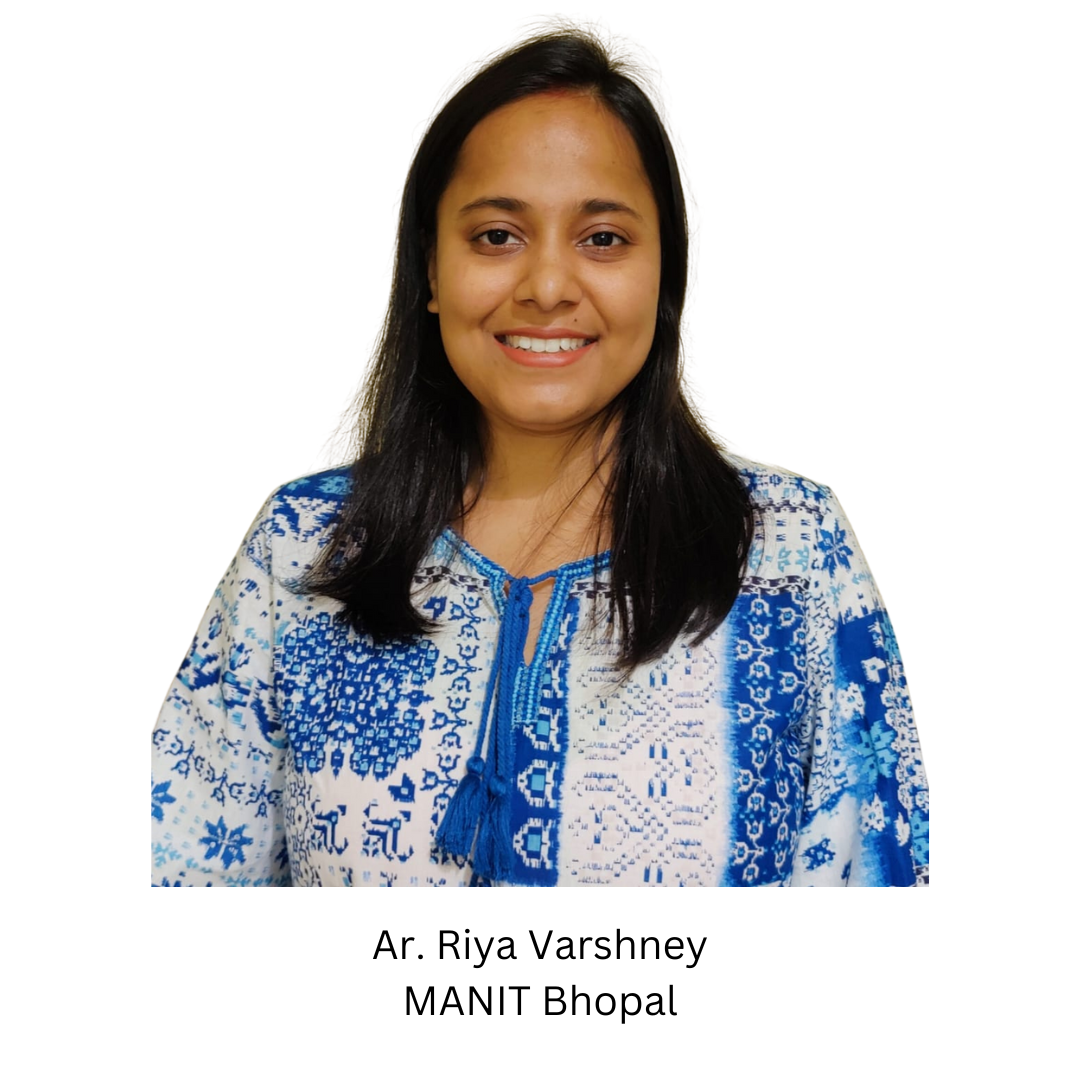
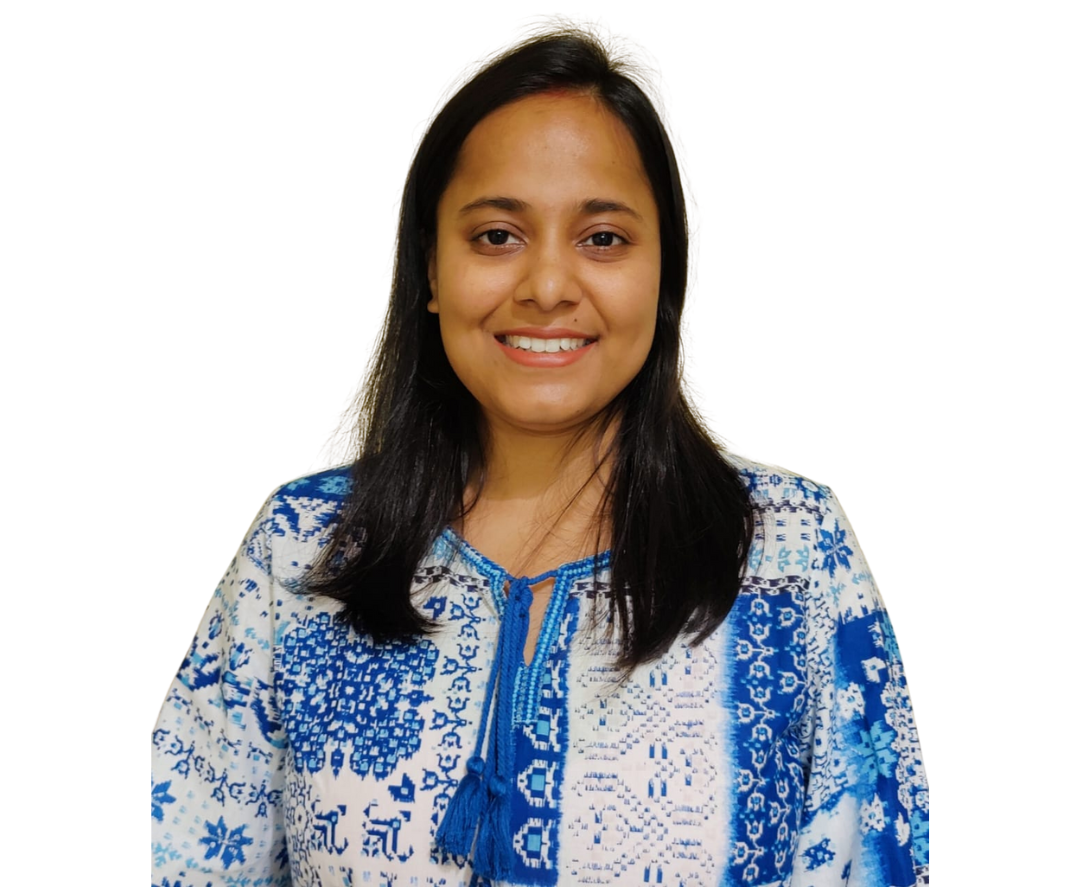
client feedbacks update

diff --git a/src/components/FAQ.jsx b/src/components/FAQ.jsx
@@ -1,10 +1,14 @@
 import React, { useState } from 'react';
 import { ChevronDown, ChevronUp } from 'lucide-react';
+import EnquiryModal from './EnquiryModal';
 
 const FAQ = () => {
   // State to track which FAQ item is open
   const [openItem, setOpenItem] = useState(0); // First item open by default
+  const [isModalOpen, setIsModalOpen] = useState(false);
 
+  const openModal = () => setIsModalOpen(true);
+  const closeModal = () => setIsModalOpen(false);
   // FAQ data
   const faqItems = [
     {
@@ -57,42 +61,53 @@ const FAQ = () => {
 
 
   return (
-    <section id='faq' className="pt-[3rem] pb-[4rem] px-6 bg-gray-50">
-      <div className="max-w-3xl mx-auto">
-        <div className="text-center mb-12">
-          <h2 className="text-3xl font-bold text-gray-900 mb-4">Got Questions? We Have Answers</h2>
-          <p className="text-gray-600">Find answers to the most common questions about our GATE preparation courses</p>
-        </div>
+    <>
+      <section id='faq' className="pt-[3rem] pb-[4rem] px-6 bg-gray-50">
+        <div className="max-w-3xl mx-auto">
+          <div className="text-center mb-12">
+            <h2 className="text-3xl font-bold text-gray-900 mb-4">Got Questions? We Have Answers</h2>
+            <p className="text-gray-600">Find answers to the most common questions about our GATE preparation courses</p>
+          </div>
 
-        <div className="space-y-4 mb-10">
-          {faqItems.map((item, index) => (
-            <div 
-              key={index} 
-              className="bg-white border border-gray-200 rounded-lg overflow-hidden shadow-sm"
-            >
-              <button
-                className="w-full text-left px-6 py-4 flex items-center justify-between focus:outline-none"
-                onClick={() => toggleItem(index)}
-                aria-expanded={openItem === index}
+          <div className="space-y-4 mb-10">
+            {faqItems.map((item, index) => (
+              <div
+                key={index}
+                className="bg-white border border-gray-200 rounded-lg overflow-hidden shadow-sm"
               >
-                <span className="font-medium text-gray-900">{item.question}</span>
-                {openItem === index ? (
-                  <ChevronUp className="w-5 h-5 text-gray-500 flex-shrink-0" />
-                ) : (
-                  <ChevronDown className="w-5 h-5 text-gray-500 flex-shrink-0" />
+                <button
+                  className="w-full text-left px-6 py-4 flex items-center justify-between focus:outline-none"
+                  onClick={() => toggleItem(index)}
+                  aria-expanded={openItem === index}
+                >
+                  <span className="font-medium text-gray-900">{item.question}</span>
+                  {openItem === index ? (
+                    <ChevronUp className="w-5 h-5 text-gray-500 flex-shrink-0" />
+                  ) : (
+                    <ChevronDown className="w-5 h-5 text-gray-500 flex-shrink-0" />
+                  )}
+                </button>
+
+                {openItem === index && (
+                  <div className="px-6 pb-4 text-gray-600">
+                    <p>{item.answer}</p>
+                  </div>
                 )}
-              </button>
-              
-              {openItem === index && (
-                <div className="px-6 pb-4 text-gray-600">
-                  <p>{item.answer}</p>
-                </div>
-              )}
-            </div>
-          ))}
+              </div>
+            ))}
+          </div>
         </div>
-      </div>
-    </section>
+        <div className='flex justify-center'>
+          <button
+            onClick={openModal}
+            className="bg-indigo-600 text-white hover:bg-indigo-700 px-8 py-4 rounded-lg font-medium text-lg inline-flex items-center gap-2 transition-colors shadow-lg"
+          >
+            Book Free Demo
+          </button>
+        </div>
+      </section>
+      <EnquiryModal isOpen={isModalOpen} onClose={closeModal} />
+    </>
   );
 };
 

diff --git a/src/components/Team.jsx b/src/components/Team.jsx
@@ -6,26 +6,50 @@ const Team = () => {
     {
       id: 1,
       image: '/1.png',
+      name1:'Ar. Parul',
+      name2:'Sharma',
+      study1:'IIT',
+      study2:'Kharagpur'
     },
     {
       id: 2,
       image: '/2.png',
+      name1:'Ar. Kanishk',
+      name2:'Sharma',
+      study1:'IIT',
+      study2:'Roorkee'
     },
     {
       id: 3,
       image: '/3.png',
+      name1:'Ar. Riya',
+      name2:'Varshney',
+      study1:'MANIT',
+      study2:'Bhopal'
     },
     {
       id: 4,
       image: '/4.png',
+      name1:'Sidhhant',
+      name2:'Asati',
+      study1:'IIT',
+      study2:'Kharagpur'
     },
     {
       id: 5,
       image: '/5.png',
+      name1:'Ar. Ruchika',
+      name2:'Sharma',
+      study1:'CEPT',
+      study2:''
     },
     {
       id: 6,
       image: '/6.png',
+      name1:'Bhavya',
+      name2:'Ary',
+      study1:'SSC,',
+      study2:'CGL'
     }
   ];
   const settings = {
@@ -79,6 +103,16 @@ const Team = () => {
                       e.target.src = `/api/placeholder/400/400`;
                     }}
                   />
+                  <div className="absolute bottom-0 right-2 w-28 h-28 rounded-full overflow-hidden border-4 border-white shadow-lg">
+                    <div className="bg-white text-center text-xs font-bold pt-2 leading-tight text-black h-1/2">
+                      <div className="mt-1">{teacher.name1}</div>
+                      <div className="text-[11px] font-semibold">{teacher.name2}</div>
+                    </div>
+                    <div className="bg-blue-500 text-white text-center text-sm font-bold py-1 h-1/2 leading-tight">
+                      <div>{teacher.study1}</div>
+                      <div>{teacher.study2}</div>
+                    </div>
+                  </div>
                 </div>
               </div>
             </div>

diff --git a/src/components/Testimonials.jsx b/src/components/Testimonials.jsx
@@ -111,13 +111,13 @@ const Testimonials = () => {
           {/* Left: Video Section */}
           <div className="w-full md:w-1/2 h-[300px] md:h-[500px] overflow-hidden">
             <video
-              ref={videoRef}
+              // ref={videoRef}
               src="/student testimonial.mp4"
               loop
               muted
               playsInline
               controls
-              // poster="/VideoCapture_20250724-210547.jpg"
+              poster="/VideoCapture_20250724-210547.jpg"
               className="w-3/4 h-full object-cover shadow-lg rounded-lg ml-[50px]"
             />
           </div>

diff --git a/src/components/Home.jsx b/src/components/Home.jsx
@@ -49,7 +49,7 @@ export default function About() {
     useEffect(() => {
         const timer = setTimeout(() => {
             openModal()
-        }, 10000);
+        }, 20000);
         return () => clearTimeout(timer); // cleanup if component unmounts
     }, []);
 
@@ -216,10 +216,9 @@ export default function About() {
             </section>
             <Team />
             <PaymentPlans />
-            <Demo />
+            {/* <Demo /> */}
             <Testimonials />
             <FAQ />
-            <Footer />
             <EnquiryModal isOpen={isModalOpen} onClose={closeModal} />
         </>
     )

diff --git a/src/components/DemoFormBooking.jsx b/src/components/DemoFormBooking.jsx
@@ -85,7 +85,7 @@ const DemoBookingForm = () => {
   };
 
   return (
-    <section className="flex justify-center items-center h-[70vh] bg-white text-center px-4 py-5 pb-0 mt-[50px]">
+    <section className="flex justify-center items-center h-[70vh] bg-white text-center px-4 py-5 pb-0 mt-[80px]">
       <div>
         <h2 className="text-black text-2xl sm:text-3xl font-semibold">
           Book Your Free Demo Class Now!
